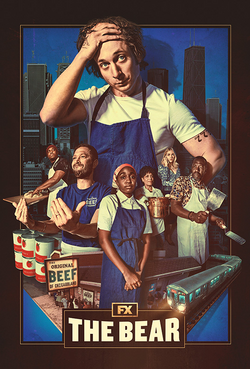
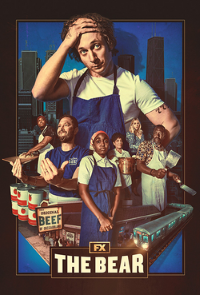
Image resizing
Resized images manually according to Professor feedback

diff --git a/favoritemoviesandshows.html b/favoritemoviesandshows.html
@@ -39,13 +39,13 @@
       <h2>The Last of Us</h2>
       <div id="tlou">
         <p>The people behind both the game and show for The Last of Us have to be labeled as geniuses. The video game version of The Last of Us is iconic and by far one of the best video games of all time. The same can be said for the TV show adaptation of The Last of Us. The directors of the show chose the perfect actors to play Joel and Ellie. Pedro Pascal not only looks similar to Joel but replicates him very well. Bella Ramsey plays Ellie well for the most part, however, there are some moments where she doesn't replicate Ellie as well as she could but maybe this is me nitpicking. The cinematography in The Last of Us is breathtaking. It's not only beautiful but the angles play a part in the storytelling. Overall, I hope to see more of this show and what it has to offer because I truly think it can be one of the best shows to come out within the last ten years.</p>
-        <img src="media/tlou.jpg" height="200" width="200" alt="The Last of Us TV show poster">
+        <img src="media/tlou.jpg" alt="The Last of Us TV show poster">
       </div>
 
       <h2>The Bear</h2>
       <div id="thebear">
         <p>The Bear is set right here in downtown Chicago. For me, this show plays out like a piece of complex art. When people think of a show about a restaurant, they think the only thing they'll be seeing is the restaurant and its ups and downs. But what The Bear does differently is that it goes much deeper than the ownership of a restaurant. The plot twists and different plot lines dive deep into the family history and drama of Carmy, played by Jeremy Allen White, along with the history of all the other show members. This show is so complex yet so simple, it's no wonder this show is so highly rated. Jeremy Allen White, known for his role in Shameless (another Chicago show) seems to be the perfect actor to play Carmy. The Bear's plot just leaves you wanting more and more after every episode. The pace of the show is set perfectly and the setting of Chicago offers a unique feeling. Honestly, I hope more shows are set in Chicago.</p>
-        <img src="media/thebear.png" height="200" width="200" alt="The Bear TV show poster">
+        <img src="media/thebear.png" alt="The Bear TV show poster">
       </div>
 
       <h2>Money Heist</h2>
@@ -57,7 +57,7 @@
       <h2>Stranger Things</h2>
       <div id="strangerthings">
         <p>One of the main reasons I love Stranger Things as a show is the date the show is set. Set in the 1980s, it brings this nostalgic feeling of when times were better and simpler. For a while, I didn't want to watch Stranger Things because I thought the ratio between real life and Sci-fi would be blown out of proportion and I would get bored of the show quickly. However, the directors found the perfect balance between reality and Sci-fi. The plot lines are incredibly written to the point where after I finished the show, I watched YouTube videos explaining the show more in detail. It's difficult to put into words how well-written this show is, it's a show you just have to watch and experience. This show masters the sets in which the actors act. The eerie vibe of the Hawkins Lab and the small-town feeling of Hawkins give off this feeling as if there is something more to Hawkins besides it being a little town.</p>
-        <img src="media/strangerthings.png" height="200" width="200" alt="Stranger Things TV show poster">
+        <img src="media/strangerthings.png" alt="Stranger Things TV show poster">
       </div>
     </div>
   </main>
